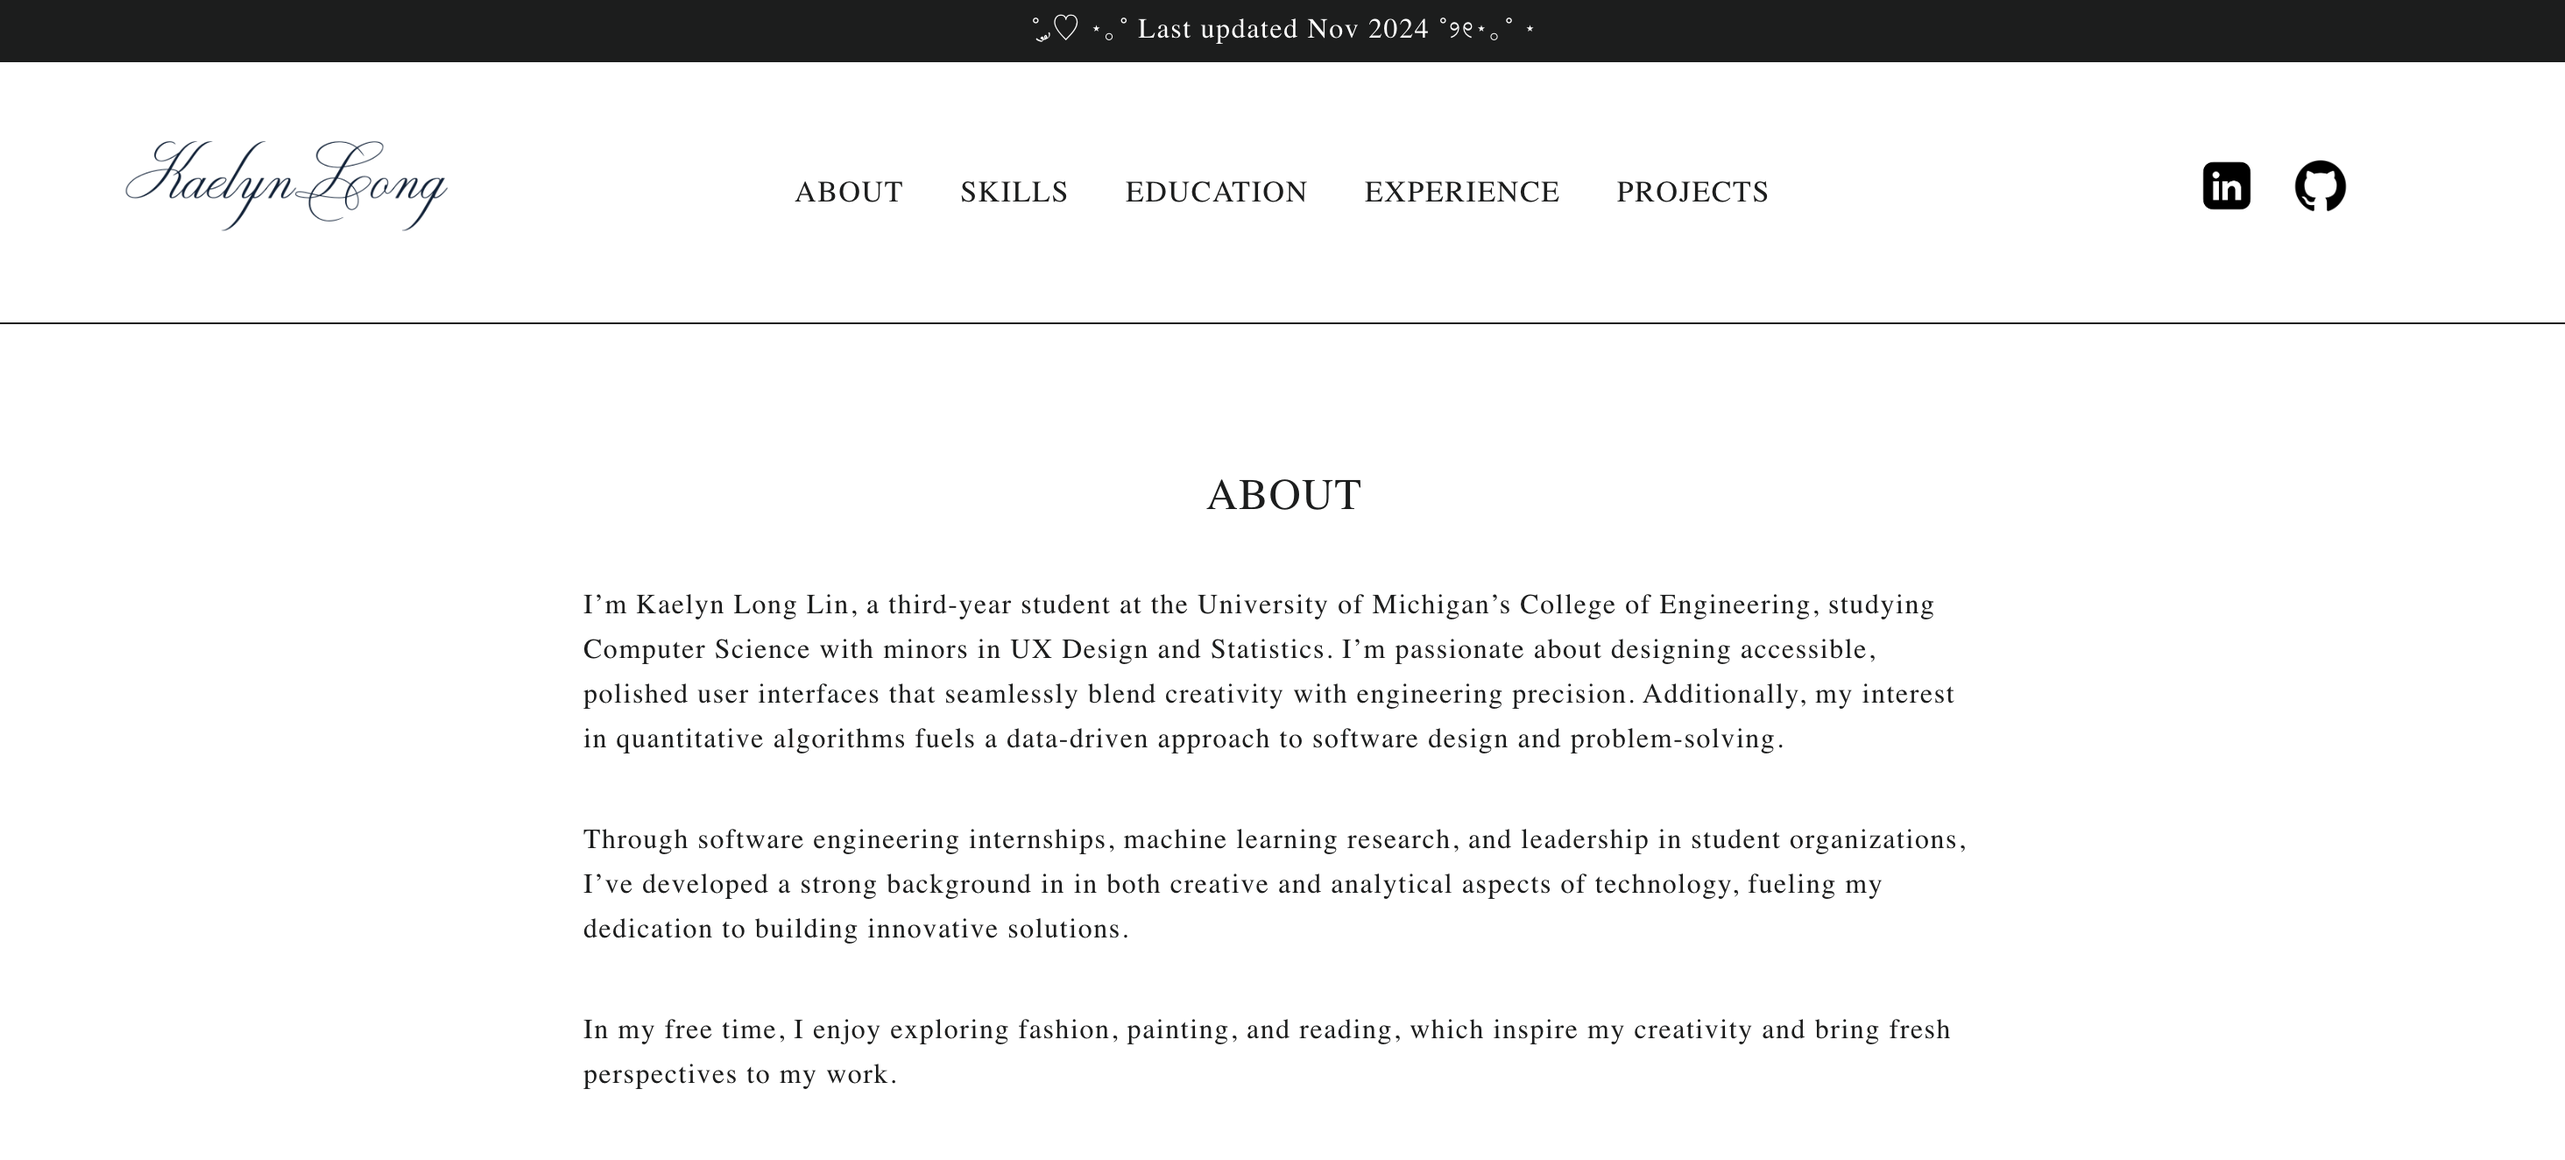
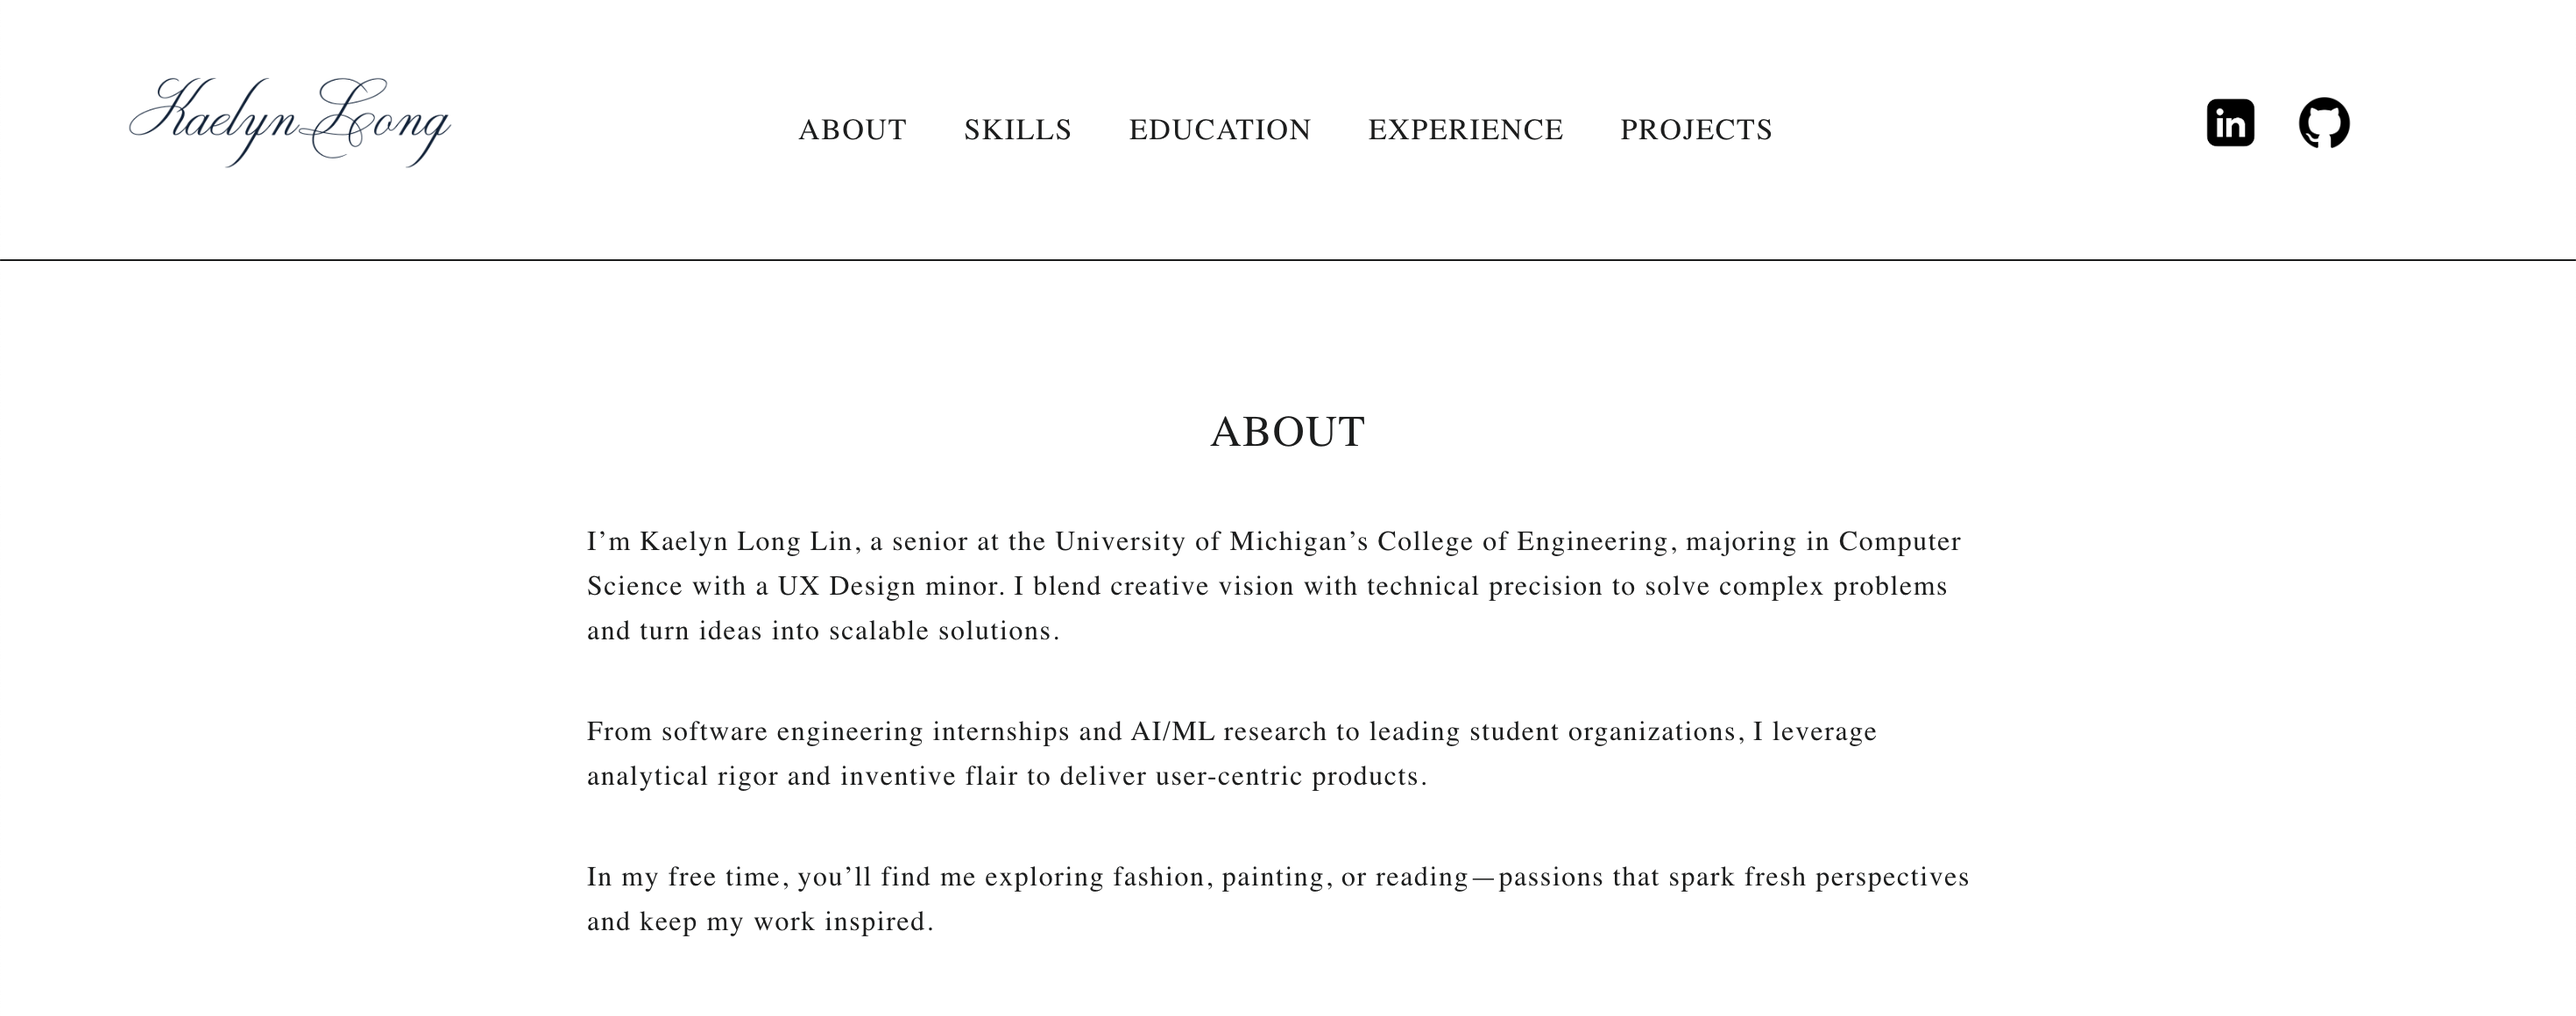
miscellaneous updates across site

diff --git a/src/components/Experience.js b/src/components/Experience.js
@@ -35,18 +35,20 @@ export default function Experience() {
       <h1 className={`fade-item ${visibleSections.includes("0") ? "fade-in" : ""}`}>EXPERIENCE</h1>
       <div className="timeline">
       <div
-          className={`experience-timeline-item ${visibleSections.includes("2") ? "fade-in" : ""}`}
-        >
-          <div className="timeline-dot"></div>
-          <div className="timeline-connector"></div>
-          <div className="timeline-content">
-            <h2>Amazon</h2>
-            <p><em>Software Development Engineer Intern | Seattle, WA | May - Aug 2025</em></p>
-            <ul className="indented-list">
-              <li>Incoming Summer 2025</li>
-            </ul>
-          </div>
+        className={`experience-timeline-item ${visibleSections.includes("2") ? "fade-in" : ""}`}
+      >
+        <div className="timeline-dot"></div>
+        <div className="timeline-connector"></div>
+        <div className="timeline-content">
+          <h2>Amazon</h2>
+          <p><em>Software Development Engineer Intern | Seattle, WA | May - Aug 2025</em></p>
+          <ul className="indented-list">
+            <li>Built and deployed a Java-based AWS Lambda CloudFormation Hook that automatically classifies safety of IAM roles, users, and groups for deletion using Access Advisor data, reducing manual audits and preventing accidental deletions in production</li>
+            <li>Extended solution to handle access keys, MFA devices, group memberships, and detached managed policies, enabling automated cleanup aligned with AWS IAM constraints through ARN normalization and policy detachment logic</li>
+            <li>Led end-to-end development and testing, designing a fault-tolerant evaluation engine with retry-safe logic, structured CloudWatch logging, and full JUnit5 test coverage for API edge cases, throttling, and propagation delays</li>
+          </ul>
         </div>
+      </div>
 
         <div
           className={`experience-timeline-item ${visibleSections.includes("2") ? "fade-in" : ""}`}
@@ -72,10 +74,9 @@ export default function Experience() {
             <h2>Akima</h2>
             <p><em>Software Engineering Intern | Herndon, VA | Jun - Aug 2024</em></p>
             <ul className="indented-list">
-              <li>Designed and developed a robust web-based E911 dispatch system for 179 Air Force bases from scratch, leveraging AWS, React, Spring Boot, and Tableau to address 300+ support tickets</li>
-              <li>Automated base and ticket tracking with MySQL and Python by creating data validation scripts, ETL pipelines, and real-time API integrations</li>
-              <li>Led a cross-functional team of 7 as Scrum Master, facilitating Agile practices, refining backlogs, and driving on-time delivery of the project</li>
-              <li>Presented the MVP to 50+ stakeholders, including the CEO, senior leadership, and military teams, effectively communicating progress, aligning objectives, and securing buy-in for future phases</li>
+              <li>Led a team of 7 as Scrum Master to engineer a web-based Air Force E911 dispatch software system from scratch for 179 bases using AWS, React, Spring Boot, and Tableau, processing over 300 support tickets</li>
+              <li>Implemented MySQL database and utilized Python scripting to manage and track bases and tickets, automating updates</li>
+              <li>Presented to over 50 stakeholders, including the CEO, group presidents, and military teams, showcasing the functional MVP</li>
             </ul>
           </div>
         </div>
@@ -89,8 +90,8 @@ export default function Experience() {
             <h2>Center for Academic Innovation at UofM</h2>
             <p><em>XR Researcher | Ann Arbor, MI | Oct 2024 - May 2024</em></p>
             <ul className="indented-list">
-              <li>Implemented audio functionalities for vocal interaction with virtual patients in a VR application using Google Cloud Speech API, Unreal Engine, and C++</li>
-              <li>Collaborated with medical experts and professors to lead iterative user testing sessions, gathering extensive feedback and analyzing data to drive continuous design improvements and enhance user experience</li>
+              <li>Implemented audio functionalities for vocal interaction with virtual patients in a VR application using Google Cloud Speech API, Unreal Engine, and C++, capturing and processing auction input with optimized settings</li>
+              <li>Collaborated with medical experts and professors to lead iterative user testing sessions and drive continuous design improvements</li>
               <li>Oversaw financial and HR operations for the XR program, managing 32 projects and optimizing performance across 17 schools</li>
             </ul>
           </div>

diff --git a/src/components/About.js b/src/components/About.js
@@ -36,13 +36,13 @@ export default function About() {
     <div id="about" className="about-section">
       <h1>ABOUT</h1>
       <p className={`about-description ${visibleSections.includes("0") ? "fade-in" : ""}`}>
-        I’m Kaelyn Long Lin, a third-year student at the University of Michigan’s College of Engineering, studying Computer Science with a minor in UX Design. I’m passionate about creating accessible, polished user interfaces that blend thoughtful design with engineering precision.
+        I’m Kaelyn Long Lin, a senior at the University of Michigan’s College of Engineering, majoring in Computer Science with a UX Design minor. I blend creative vision with technical precision to solve complex problems and turn ideas into scalable solutions.
       </p>
       <p className={`about-description ${visibleSections.includes("1") ? "fade-in" : ""}`}>
-        Through software engineering internships, AI/ML research, and leadership in student organizations, I’ve developed a strong background in both creative and analytical aspects of technology, fueling my dedication to innovative solutions.
+        From software engineering internships and AI/ML research to leading student organizations, I leverage analytical rigor and inventive flair to deliver user-centric products.
       </p>
       <p className={`about-description ${visibleSections.includes("2") ? "fade-in" : ""}`}>
-        In my free time, I enjoy exploring fashion, painting, and reading, which inspire my creativity and bring fresh perspectives to my work.
+        In my free time, you’ll find me exploring fashion, painting, or reading—passions that spark fresh perspectives and keep my work inspired.
       </p>
     </div>
   );

diff --git a/src/components/Skills.js b/src/components/Skills.js
@@ -35,13 +35,13 @@ export default function Skills() {
         <div className={`skills-item ${visibleSections.includes("0") ? "fade-in" : ""}`}>
           <img src="/images/languagesIcon.png" alt="Languages Icon" className="skills-icon" />
           <div className="skills-text">
-            <strong>Languages:</strong> C/C++ | Python | HTML | CSS | JavaScript | Shell scripting | SQL | R
+            <strong>Languages:</strong> C/C++ | Java | Python | HTML | CSS | JavaScript | Shell scripting | SQL | R
           </div>
         </div>
         <div className={`skills-item ${visibleSections.includes("1") ? "fade-in" : ""}`}>
           <img src="/images/softwareIcon.png" alt="Software Icon" className="skills-icon" />
           <div className="skills-text">
-            <strong>Software:</strong> VSCode | Github | Git | AWS | Jira | Confluence | Tableau | Jupyter Notebook | Excel
+            <strong>Software:</strong> VSCode | IntelliJ | Github | Git | AWS | Jira | Confluence | Tableau | Jupyter | Excel
           </div>
         </div>
       </div>

diff --git a/src/components/Navbar.js b/src/components/Navbar.js
@@ -18,7 +18,7 @@ export default function Navbar() {
         <>
             {/* Announcement Bar */}
             <div className="announcement-bar">
-                ˚ ༘♡ ⋆｡˚ Last updated Jan 2025 ˚୨୧⋆｡˚ ⋆
+                ˚ ༘♡ ⋆｡˚ Last updated Aug 2025 ˚୨୧⋆｡˚ ⋆
             </div>
 
             {/* Navbar */}

diff --git a/src/components/Footer.js b/src/components/Footer.js
@@ -12,7 +12,7 @@ export default function Footer() {
           </li>
         </ul>
         <div className="footer-copyright">
-          © 2024 KAELYN LONG
+          © 2025 KAELYN LONG
         </div>
       </div>
     </footer>
